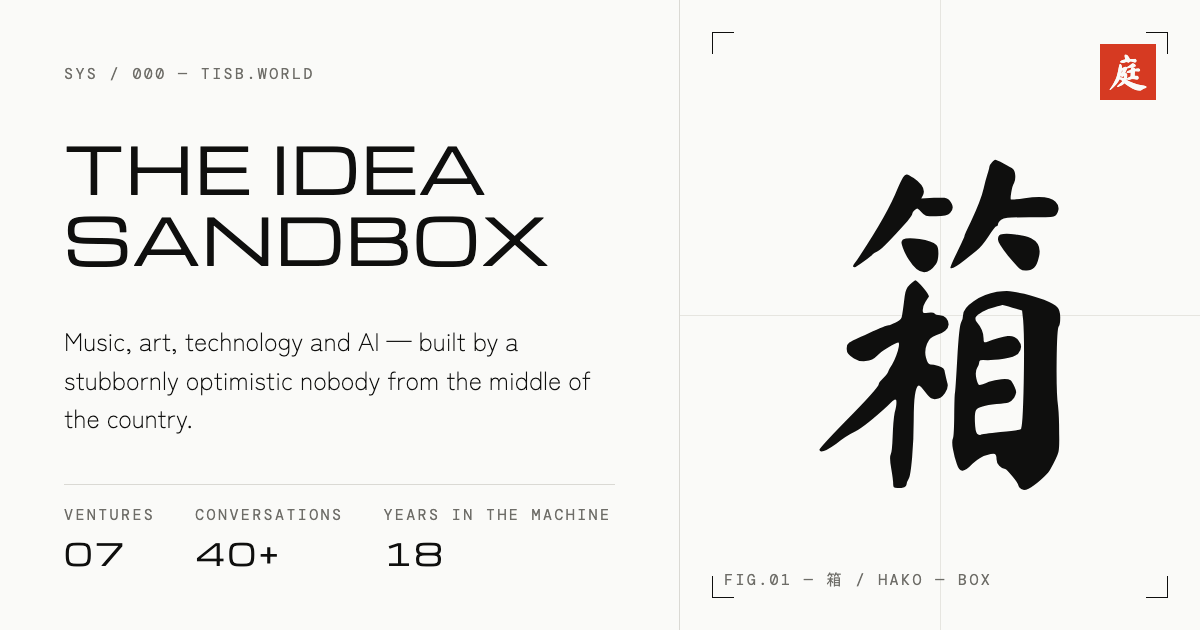
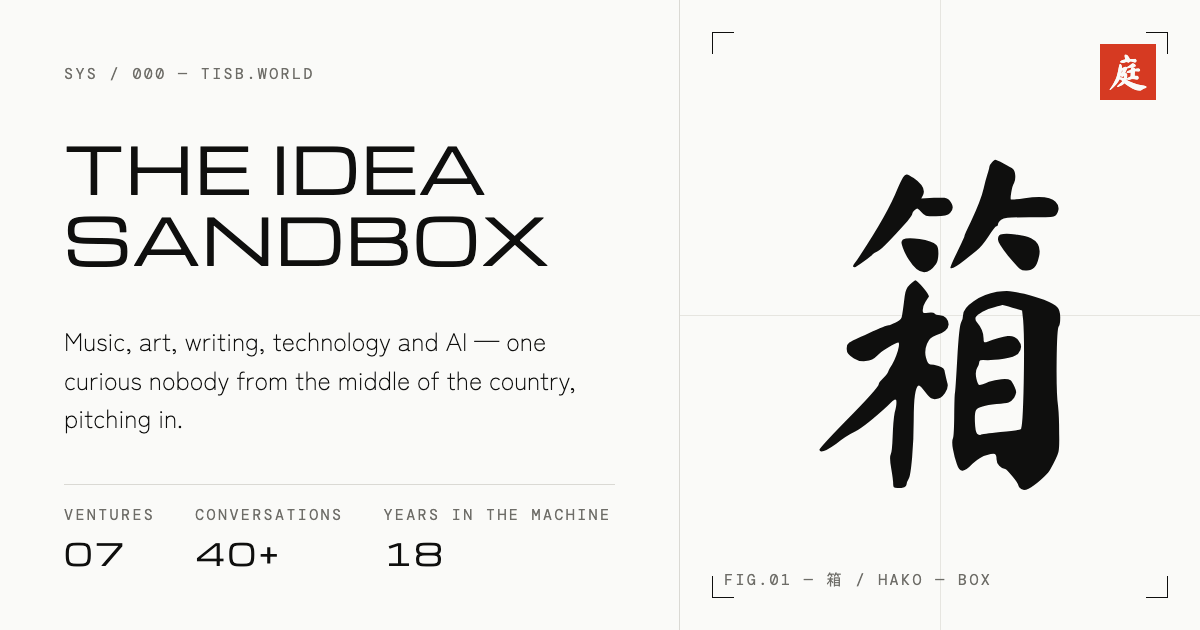
Home line: add writing, trade 'stubbornly optimistic' for 'pitching in'
'Music, art, writing, technology and AI. Seven ventures, forty-plus
conversations — one curious nobody from the middle of the country,
pitching in.' Writing is now a first-class section, and the line ends on
taking part rather than on a self-description. Origin paragraph, search
and link-preview descriptions, and the share card updated to match.

Claude-Session: https://claude.ai/code/session_01PwoEiWE48k3Vs8toLQcJQf

Changed region(s): [[0.0617, 0.5127, 0.4933, 0.6937]]

diff --git a/index.html b/index.html
@@ -9,14 +9,14 @@
     <meta name="theme-color" content="#FAFAF8" />
     <meta name="google-site-verification" content="ckOOxt5fkbV25iQFqua5kz26t55PrJljyo2ZtbogvXw" />
     <title>TISB - The Idea Sandbox</title>
-    <meta name="description" content="Music, art, technology and AI. Seven ventures, forty-plus conversations, and a stubbornly optimistic nobody building from the middle of the country." />
+    <meta name="description" content="Music, art, writing, technology and AI. Seven ventures, forty-plus conversations — one curious nobody from the middle of the country, pitching in." />
     <link rel="canonical" href="https://www.tisb.world/" />
     
     <!-- Open Graph / Facebook -->
     <meta property="og:type" content="website" />
     <meta property="og:url" content="https://www.tisb.world/" />
     <meta property="og:title" content="TISB - The Idea Sandbox" />
-    <meta property="og:description" content="Music, art, technology and AI. Seven ventures, forty-plus conversations, and a stubbornly optimistic nobody building from the middle of the country." />
+    <meta property="og:description" content="Music, art, writing, technology and AI. Seven ventures, forty-plus conversations — one curious nobody from the middle of the country, pitching in." />
     <meta property="og:image" content="https://www.tisb.world/social-banner.png" />
     <meta property="og:image:width" content="1200" />
     <meta property="og:image:height" content="630" />
@@ -27,7 +27,7 @@
     <meta property="twitter:card" content="summary_large_image" />
     <meta property="twitter:url" content="https://www.tisb.world/" />
     <meta property="twitter:title" content="TISB - The Idea Sandbox" />
-    <meta property="twitter:description" content="Music, art, technology and AI. Seven ventures, forty-plus conversations, and a stubbornly optimistic nobody building from the middle of the country." />
+    <meta property="twitter:description" content="Music, art, writing, technology and AI. Seven ventures, forty-plus conversations — one curious nobody from the middle of the country, pitching in." />
     <meta property="twitter:image" content="https://www.tisb.world/social-banner.png" />
     <meta property="twitter:image:alt" content="TISB - The Idea Sandbox banner" />
     <!-- Signal type system: Michroma (display), Zen Kaku Gothic New (body),
@@ -52,7 +52,7 @@
           "@id": "https://www.tisb.world/#website",
           "url": "https://www.tisb.world/",
           "name": "TISB — The Idea Sandbox",
-          "description": "Rajeev Kumar builds seven AI startups from Central Illinois — alongside original music, large-format art, and a podcast.",
+          "description": "Rajeev Kumar builds seven AI startups from Central Illinois — alongside original music, large-format art, essays, and a podcast.",
           "publisher": { "@id": "https://www.tisb.world/#person" }
         },
         {

diff --git a/src/pages/Home.tsx b/src/pages/Home.tsx
@@ -43,7 +43,7 @@ export default function Home() {
     <Box component="section" sx={{ display: 'flex', flexDirection: 'column' }}>
       <Seo
         title="TISB — The Idea Sandbox"
-        description="Rajeev Kumar builds seven AI startups from Central Illinois — alongside original music, large-format art, and a podcast of forty-plus conversations. Where ideas become ventures."
+        description="Rajeev Kumar builds seven AI startups from Central Illinois — alongside original music, large-format art, essays, and a podcast of forty-plus conversations. Where ideas become ventures."
         path="/"
       />
 
@@ -67,8 +67,8 @@ export default function Home() {
             THE IDEA<br />SANDBOX
           </Box>
           <Box component="p" sx={{ fontSize: 19, lineHeight: 1.7, maxWidth: 520, fontWeight: 300 }}>
-            Music, art, technology and AI. Seven ventures, forty-plus conversations, and a stubbornly
-            optimistic nobody building from the middle of the country.
+            Music, art, writing, technology and AI. Seven ventures, forty-plus conversations — one
+            curious nobody from the middle of the country, pitching in.
           </Box>
           <Box sx={{ display: 'grid', gridTemplateColumns: 'repeat(3, minmax(0, 1fr))', borderTop: `1px solid ${C.hairline}` }}>
             {STATS.map((s, i) => (
@@ -134,7 +134,7 @@ export default function Home() {
           <p>
             The Idea Sandbox is where it all lands: forty-plus conversations with scientists, artists,
             and beautiful misfits; essays on technology, culture, and the games we choose to play; and a
-            running experiment in what one stubbornly optimistic nobody can build when the tools finally
+            running experiment in what one curious nobody can build when the tools finally
             catch up to the imagination.
           </p>
           <Box component="p" sx={{ mt: '12px', font: `400 17px/1.6 ${F.display}`, letterSpacing: '.02em' }}>
